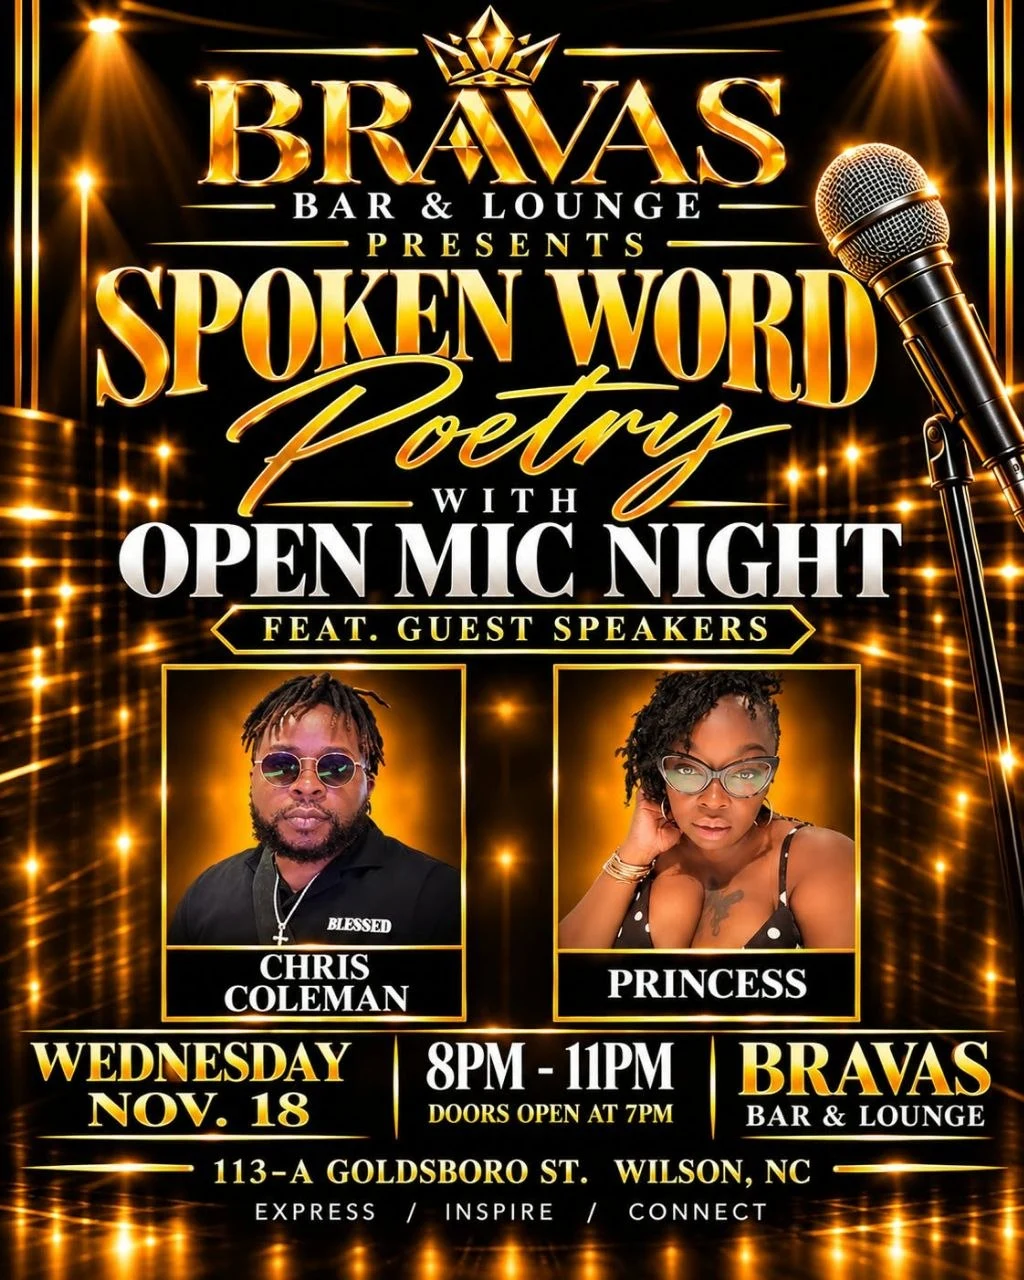
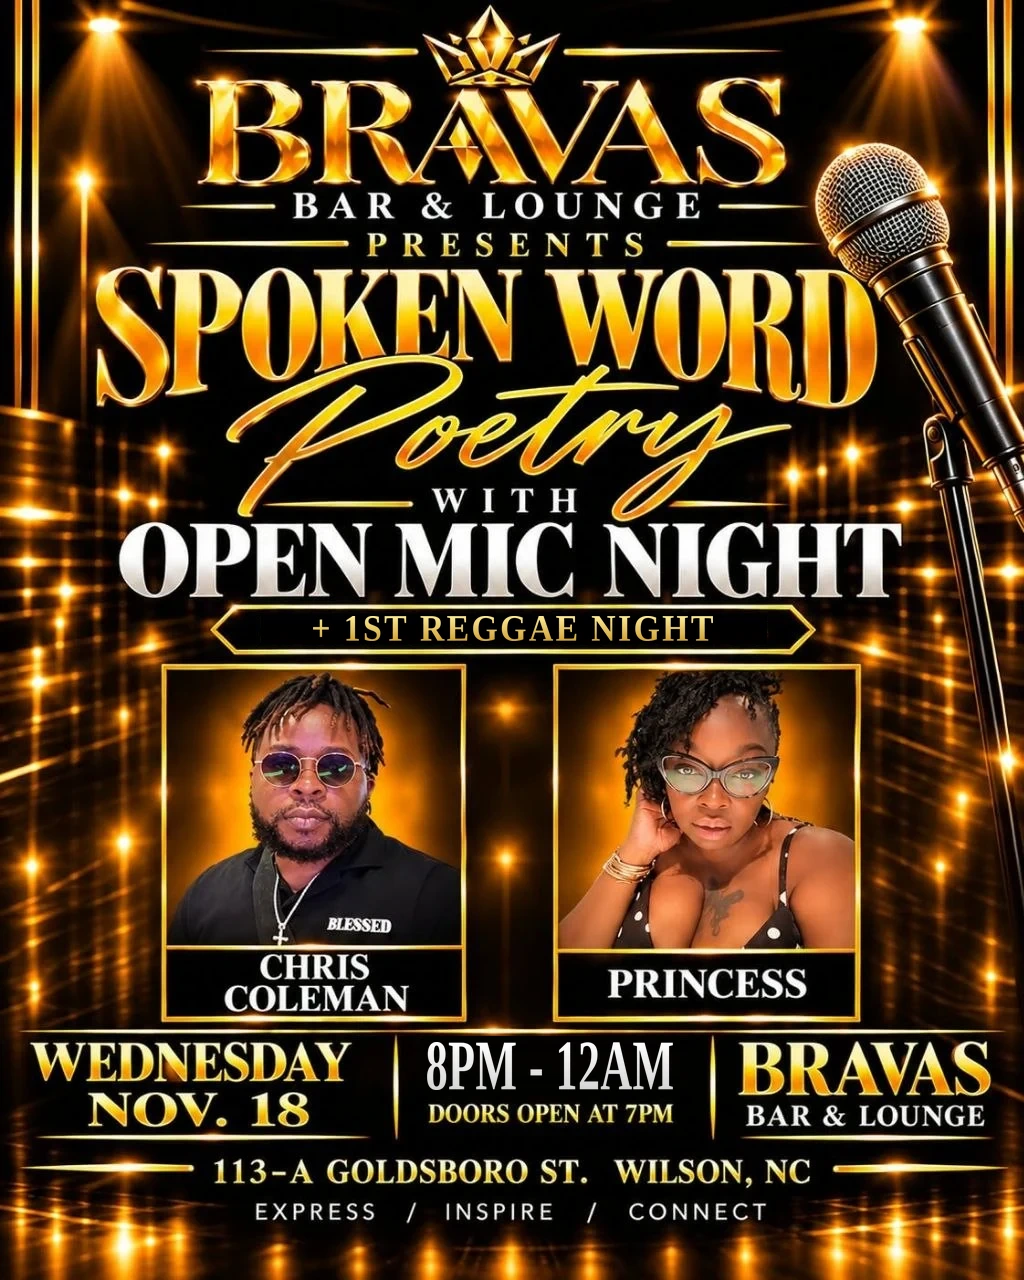
Update Nov 18 flyer: 8 PM-12 AM, Spoken Word Open Mic + 1st Reggae Night
Claude-Session: https://claude.ai/code/session_019An3q5Q4V8bpJBmMVPzXk6

Changed region(s): [[0.25, 0.4688, 0.75, 0.5], [0.4062, 0.8125, 0.6562, 0.875]]

diff --git a/events/index.html b/events/index.html
@@ -1,4 +1,4 @@
-<!doctype html><html lang="en"><head><meta charset="utf-8"><meta name="viewport" content="width=device-width,initial-scale=1,viewport-fit=cover"><meta name="theme-color" content="#171014"><title>Events | BRAVAS · Wilson, NC</title><meta name="description" content="Explore BRAVAS music, spoken word and social nights in downtown Wilson. Reserve ahead for our intimate 40-seat lounge."><link rel="canonical" href="https://bravasvip.com/events/"><meta property="og:title" content="Events | BRAVAS · Wilson, NC"><meta property="og:description" content="Explore BRAVAS music, spoken word and social nights in downtown Wilson. Reserve ahead for our intimate 40-seat lounge."><meta property="og:type" content="website"><meta property="og:url" content="https://bravasvip.com/events/"><meta name="twitter:card" content="summary_large_image"><link rel="preconnect" href="https://fonts.googleapis.com"><link rel="preconnect" href="https://fonts.gstatic.com" crossorigin><link href="https://fonts.googleapis.com/css2?family=Cormorant+Garamond:ital,wght@0,400;0,500;0,600;1,400;1,500&family=Manrope:wght@400;500;600;700&display=swap" rel="stylesheet"><link rel="stylesheet" href="/assets/editorial.css"><link rel="stylesheet" href="/assets/visual.css"><link rel="stylesheet" href="/assets/flyer-player.css"></head><body><a class="skip-link" href="#main-content">Skip to content</a><header class="mast"><a class="wordmark" href="/">BRAVAS<span>PRIVATE SOCIAL LOUNGE</span></a><button class="menu-button" aria-controls="navigation" aria-expanded="false">Menu</button><nav id="navigation"><a href="/#experience">Experience</a><a href="/events/">Events</a><a href="/membership/">Membership</a><a href="/live/">Live</a><a class="button small" href="https://tally.so/r/RWdAv4">Reserve a seat ↗</a></nav></header><div class="page-mood mood-events"><div class="wrap"><p class="eyebrow">THE BRAVAS EXPERIENCE</p><h2>An evening worth sharing.</h2></div><span class="mood-credit">BRAND MOOD IMAGERY</span></div><main id="main-content" class="wrap detail-page"><p class="eyebrow">THE BRAVAS CALENDAR</p><h1>Find your<br><em>kind of night.</em></h1><p class="deck">Music, conversation and good company. One intimate room.</p><section id="event-player" data-flyer-player aria-label="Upcoming event flyers"><div class="flyer-fallback"><article id="sunday-funday" class="event-feature" data-event-end="2026-11-15T22:00:00-05:00"><a class="flyer" href="/assets/flyers/sunday-funday-2026-11-15.webp" target="_blank" rel="noopener"><img src="/assets/flyers/sunday-funday-2026-11-15.webp" alt="Sunday Funday Brunch at BRAVAS, Sunday November 15, 2026, 3 PM–10 PM. DJ Juice and Overly Loaded food truck: loaded fries, wings and loaded eggs. 113-A Goldsboro St, Wilson NC 27893." width="1024" height="1280" loading="lazy" decoding="async"></a><div class="feature-copy"><p class="eyebrow">SUNDAY, NOVEMBER 15 · 3 PM–10 PM</p><h3>Sunday Funday<br><em>Brunch.</em></h3><p>Make Sunday a little more loaded. Overly Loaded food truck is on site with loaded fries, wings and loaded eggs. Music by DJ Juice.</p><a class="button" href="https://tally.so/r/RWdAv4?date=2026-11-15">Reserve for Sunday ↗</a><p class="micro">113-A Goldsboro St. · Wilson, NC<br>Event hours: 3 PM–10 PM.</p></div></article></div></section><div class="event-list" data-event-calendar><article class="event-card" data-event-end="2026-11-14T00:00:00-05:00"><div class="date"><span>FRIDAY</span><strong>13</strong><span>NOVEMBER</span></div><div><h3>Feel Good Fridayz</h3><p>DJ Ike · 7 PM–midnight<br>Overly Loaded Food Truck</p><a class="textlink" href="https://tally.so/r/RWdAv4?date=2026-11-13">Reserve your seat ↗</a></div></article><article class="event-card" data-event-end="2026-11-18T23:00:00-05:00"><div class="date"><span>WEDNESDAY</span><strong>18</strong><span>NOVEMBER</span></div><div><h3>Spoken Word Poetry + Open Mic Night</h3><p>8 PM–11 PM · Doors open at 7 PM<br>Featuring Chris Coleman &amp; Princess</p><a class="textlink" href="https://tally.so/r/RWdAv4?date=2026-11-18">Reserve your seat ↗</a><a class="textlink calendar-flyer-link" href="/assets/flyers/spoken-word-2026-11-18.webp" target="_blank" rel="noopener">View flyer ↗</a></div></article></div><section id="nights"><div class="gold-rule"></div><h2>Every week at BRAVAS</h2><p class="section-copy">Something different every night. Members get in free on every regular night. Guest cover varies by event, and you can reserve any night online. Reservations are priority, so book ahead.</p>
+<!doctype html><html lang="en"><head><meta charset="utf-8"><meta name="viewport" content="width=device-width,initial-scale=1,viewport-fit=cover"><meta name="theme-color" content="#171014"><title>Events | BRAVAS · Wilson, NC</title><meta name="description" content="Explore BRAVAS music, spoken word and social nights in downtown Wilson. Reserve ahead for our intimate 40-seat lounge."><link rel="canonical" href="https://bravasvip.com/events/"><meta property="og:title" content="Events | BRAVAS · Wilson, NC"><meta property="og:description" content="Explore BRAVAS music, spoken word and social nights in downtown Wilson. Reserve ahead for our intimate 40-seat lounge."><meta property="og:type" content="website"><meta property="og:url" content="https://bravasvip.com/events/"><meta name="twitter:card" content="summary_large_image"><link rel="preconnect" href="https://fonts.googleapis.com"><link rel="preconnect" href="https://fonts.gstatic.com" crossorigin><link href="https://fonts.googleapis.com/css2?family=Cormorant+Garamond:ital,wght@0,400;0,500;0,600;1,400;1,500&family=Manrope:wght@400;500;600;700&display=swap" rel="stylesheet"><link rel="stylesheet" href="/assets/editorial.css"><link rel="stylesheet" href="/assets/visual.css"><link rel="stylesheet" href="/assets/flyer-player.css"></head><body><a class="skip-link" href="#main-content">Skip to content</a><header class="mast"><a class="wordmark" href="/">BRAVAS<span>PRIVATE SOCIAL LOUNGE</span></a><button class="menu-button" aria-controls="navigation" aria-expanded="false">Menu</button><nav id="navigation"><a href="/#experience">Experience</a><a href="/events/">Events</a><a href="/membership/">Membership</a><a href="/live/">Live</a><a class="button small" href="https://tally.so/r/RWdAv4">Reserve a seat ↗</a></nav></header><div class="page-mood mood-events"><div class="wrap"><p class="eyebrow">THE BRAVAS EXPERIENCE</p><h2>An evening worth sharing.</h2></div><span class="mood-credit">BRAND MOOD IMAGERY</span></div><main id="main-content" class="wrap detail-page"><p class="eyebrow">THE BRAVAS CALENDAR</p><h1>Find your<br><em>kind of night.</em></h1><p class="deck">Music, conversation and good company. One intimate room.</p><section id="event-player" data-flyer-player aria-label="Upcoming event flyers"><div class="flyer-fallback"><article id="sunday-funday" class="event-feature" data-event-end="2026-11-15T22:00:00-05:00"><a class="flyer" href="/assets/flyers/sunday-funday-2026-11-15.webp" target="_blank" rel="noopener"><img src="/assets/flyers/sunday-funday-2026-11-15.webp" alt="Sunday Funday Brunch at BRAVAS, Sunday November 15, 2026, 3 PM–10 PM. DJ Juice and Overly Loaded food truck: loaded fries, wings and loaded eggs. 113-A Goldsboro St, Wilson NC 27893." width="1024" height="1280" loading="lazy" decoding="async"></a><div class="feature-copy"><p class="eyebrow">SUNDAY, NOVEMBER 15 · 3 PM–10 PM</p><h3>Sunday Funday<br><em>Brunch.</em></h3><p>Make Sunday a little more loaded. Overly Loaded food truck is on site with loaded fries, wings and loaded eggs. Music by DJ Juice.</p><a class="button" href="https://tally.so/r/RWdAv4?date=2026-11-15">Reserve for Sunday ↗</a><p class="micro">113-A Goldsboro St. · Wilson, NC<br>Event hours: 3 PM–10 PM.</p></div></article></div></section><div class="event-list" data-event-calendar><article class="event-card" data-event-end="2026-11-14T00:00:00-05:00"><div class="date"><span>FRIDAY</span><strong>13</strong><span>NOVEMBER</span></div><div><h3>Feel Good Fridayz</h3><p>DJ Ike · 7 PM–midnight<br>Overly Loaded Food Truck</p><a class="textlink" href="https://tally.so/r/RWdAv4?date=2026-11-13">Reserve your seat ↗</a></div></article><article class="event-card" data-event-end="2026-11-19T00:00:00-05:00"><div class="date"><span>WEDNESDAY</span><strong>18</strong><span>NOVEMBER</span></div><div><h3>Spoken Word Open Mic + 1st Reggae Night</h3><p>8 PM–12 AM · Doors open at 7 PM<br>Featuring Chris Coleman &amp; Princess</p><a class="textlink" href="https://tally.so/r/RWdAv4?date=2026-11-18">Reserve your seat ↗</a><a class="textlink calendar-flyer-link" href="/assets/flyers/spoken-word-2026-11-18.webp" target="_blank" rel="noopener">View flyer ↗</a></div></article></div><section id="nights"><div class="gold-rule"></div><h2>Every week at BRAVAS</h2><p class="section-copy">Something different every night. Members get in free on every regular night. Guest cover varies by event, and you can reserve any night online. Reservations are priority, so book ahead.</p>
 <div class="week">
 <article class="night"><div class="day">Mondays</div><h3>Members Monday</h3><p class="night-copy">Free entry for members all night.</p><ul class="schedule"><li><span>Open</span><span>3 PM – 12 AM</span></li></ul><div class="price-chip">Members free · Guest cover at the door</div><a class="btn btn-secondary btn-sm" href="https://tally.so/r/RWdAv4">Reserve</a></article>
 <article class="night"><div class="day">Wednesdays</div><h3>Spoken Word Wednesday</h3><p class="night-copy">Poets, storytellers and lyricists take the mic.</p><ul class="schedule"><li><span>Early show</span><span>7:00 – 9:30 PM</span></li><li><span>Late show</span><span>10:00 PM – 12:00 AM</span></li></ul><div class="price-chip">Members free · Guest cover at the door</div><div class="cta-row"><a class="btn btn-secondary btn-sm" href="https://tally.so/r/RWdAv4">Reserve</a><a class="btn btn-secondary btn-sm" href="/events/">Lineup</a></div></article>
